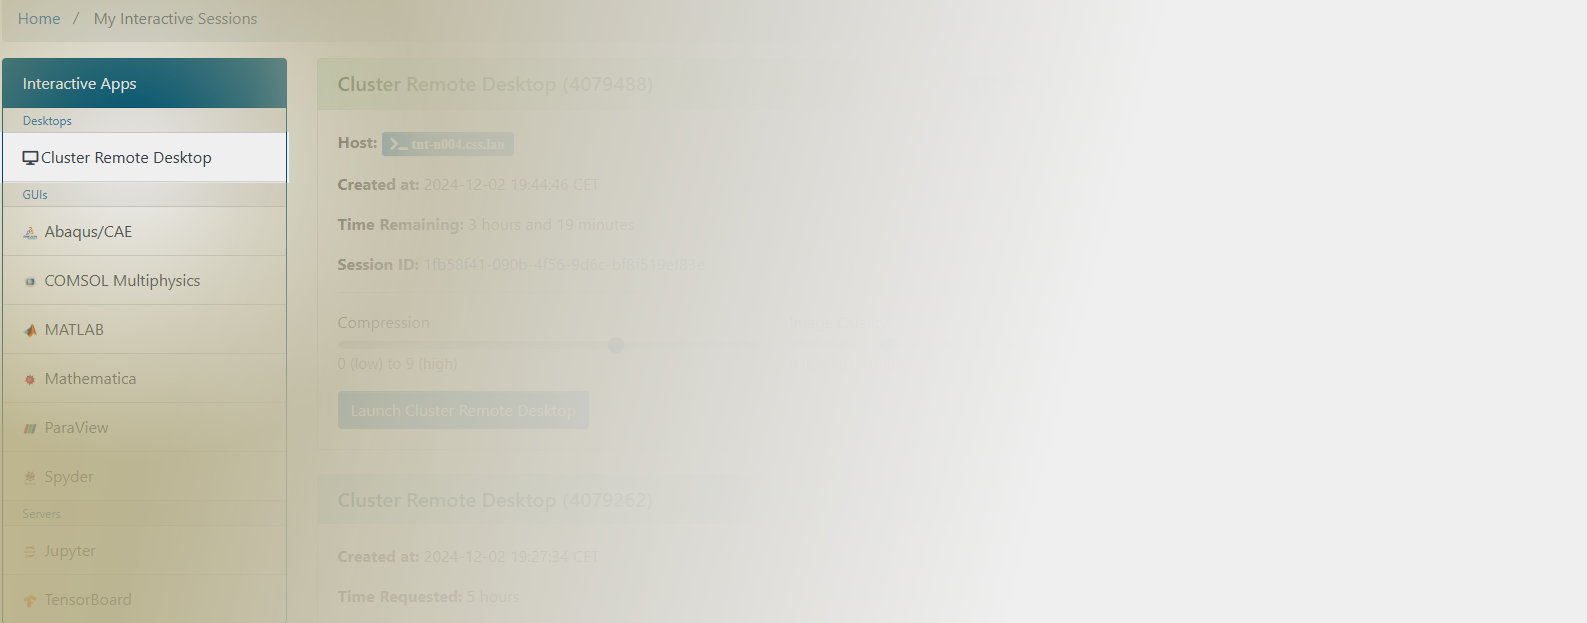
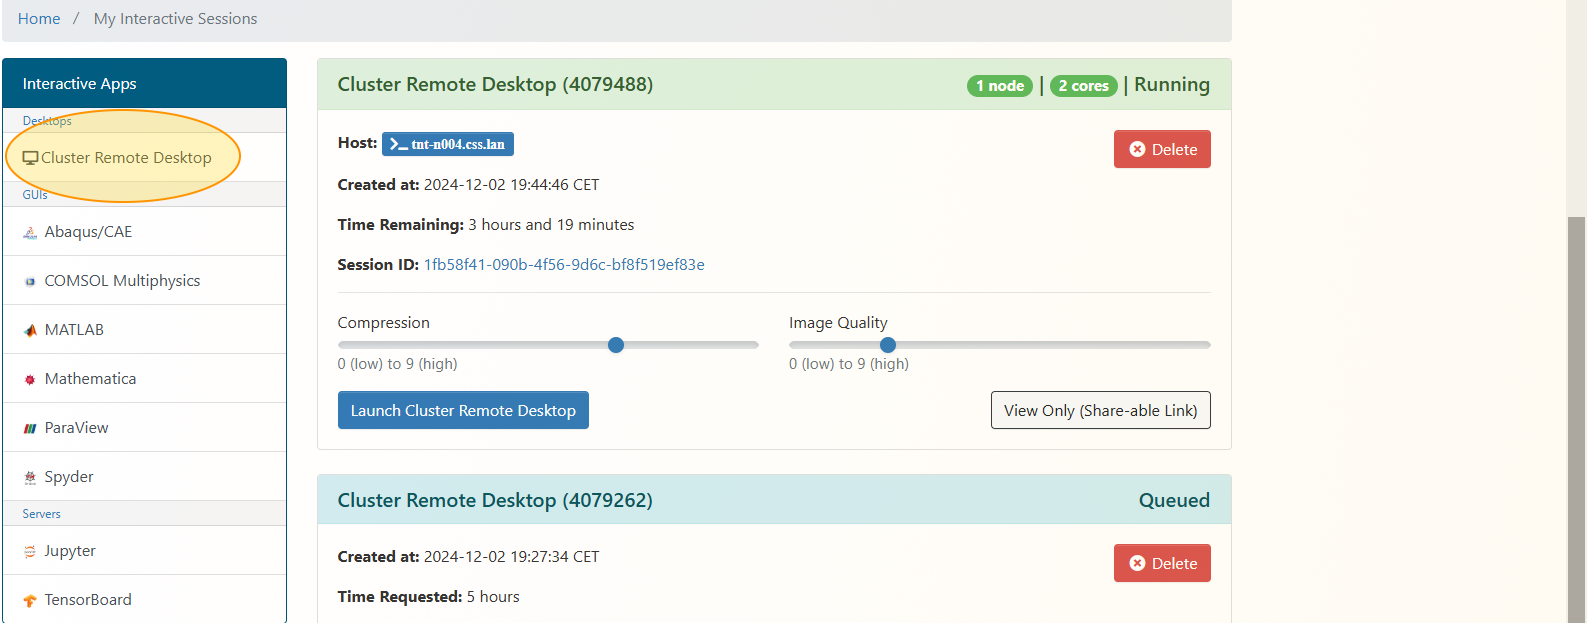
Figure and instruction updated.

diff --git a/README_UnitreeRLGym_IsaacGym_backup.md b/README_UnitreeRLGym_IsaacGym_backup.md
@@ -6,7 +6,17 @@ This is a simple example of using Unitree Robots for reinforcement learning, inc
 
 ## Installation
 This first part of the installation should be done on the shell, since the Cluster Remote Desktop only allows limited access to the internet for installations.
-
+The cluster could be either accessed with a shell via a webbrowser: https://login.cluster.uni-hannover.de/pun/sys/shell/ssh/127.0.0.1 or via SSH:
+## SSH login
+   Connect to the cluster using Putty or anything similar:
+   ```
+   <username>@login.cluster.uni-hannover.de
+   ```
+   Find the currently active job with the graphical interface:
+   ```
+   squeue --me
+   srun --jobid=<ID> --pty bash --login
+   ```
 1. Create a new python virtual env with python 3.6, 3.7 or 3.8 (3.8 recommended)
    ```
    conda create -n unitree_rl_env python=3.8 -y
@@ -30,15 +40,11 @@ This first part of the installation should be done on the shell, since the Clust
    wget https://developer.nvidia.com/isaac-gym-preview-4
    tar -xvzf isaac-gym-preview-4.tar.gz
    cd isaacgym/python && pip install -e .
-   cd /..
-   cd /..
    ```
-   - Try running an example 
-   ```
-   python isaacgym/python/examples/1080_balls_of_solitude.py
-   ```
+   Export the library paths. This step is sometimes also required after creating a new session:
    ```
    export LD_LIBRARY_PATH=/bigwork/<username>/.conda/envs/unitree_rl_env/lib:$LD_LIBRARY_PATH
+   export LD_LIBRARY_PATH=/bigwork/<username>/.conda/envs/isaacsym/lib:$LD_LIBRARY_PATH
    ```
 4. 
    - For troubleshooting check docs isaacgym/docs/index.html
@@ -49,7 +55,6 @@ This first part of the installation should be done on the shell, since the Clust
    git clone https://github.com/leggedrobotics/rsl_rl
    cd rsl_rl
    pip install -e .
-   cd /..
    ```
 
 5. Install unitree_rl_gym
@@ -57,7 +62,6 @@ This first part of the installation should be done on the shell, since the Clust
    git clone https://github.com/unitreerobotics/unitree_rl_gym
    cd unitree_rl_gym
    pip install -e .
-   cd /..
    ```
 ## Graphical interface
 
@@ -65,12 +69,16 @@ This first part of the installation should be done on the shell, since the Clust
 2. Log into the interactive sessions website of the university cluster:
 https://login.cluster.uni-hannover.de/pun/sys/dashboard/batch_connect/sessions
 2. Navigate to the "Interactive Apps" field and start a new "Cluster Remote Desktop" session.
-3. Select the 
+3. Select
 * number of hours (eg. 5h)
 * memory per CPU node (32GB)
 * a single RTX compatible GPU (rtxa6000:1)
 * cluster partition (tnt as the only available)
-
+   - Test isaacsim 
+   ```
+   cd isaacgym/python/examples
+   python 1080_balls_of_solitude.py
+   ```
 ## Training
    ```
    python legged_gym/scripts/train.py --task=go2
